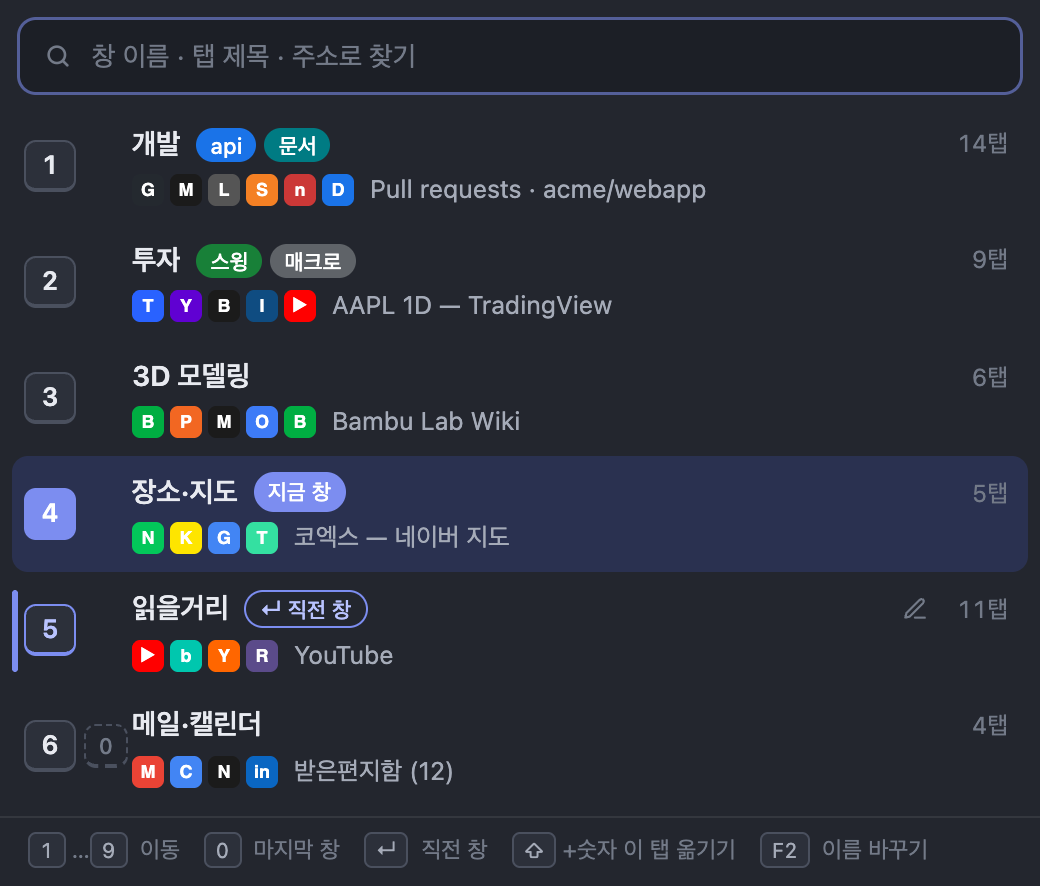
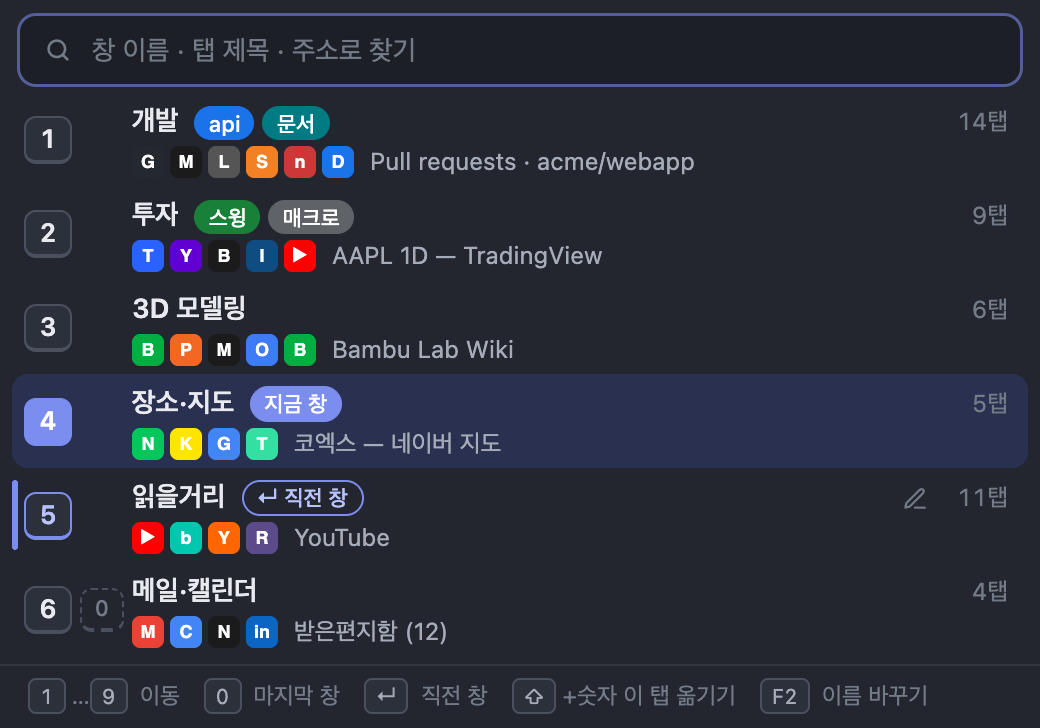
1.0.2: list density option (compact / normal / large)
Chrome caps the popup at 600 px, so density is the lever: compact fits about 13
windows, normal about 10, large about 8. Set in the options page; default normal.
Rows are tighter by default than before.

diff --git a/src/popup.css b/src/popup.css
@@ -52,6 +52,10 @@
 html { color-scheme: light dark; }
 * { box-sizing: border-box; }
 [hidden] { display: none !important; }
+/* List density (options page): compact fits ~13 windows in Chrome's 600px popup, normal ~10, large ~8. */
+body { --row-pad: 4px; --name-size: 13.5px; --sub-size: 12px; --key: 24px; --fav: 16px; --sub-gap: 1px; }
+body[data-density="compact"] { --row-pad: 2px; --name-size: 12.5px; --sub-size: 11px; --key: 22px; --fav: 14px; --sub-gap: 0px; }
+body[data-density="large"] { --row-pad: 8px; --name-size: 15px; --sub-size: 13px; --key: 28px; --fav: 18px; --sub-gap: 3px; }
 html, body { margin: 0; padding: 0; }
 body {
   width: 520px;
@@ -69,9 +73,9 @@ body {
 /* ---------- search ---------- */
 .search {
   display: flex; align-items: center; gap: 10px;
-  margin: 10px 10px 4px;
+  margin: 8px 10px 2px;
   padding: 0 12px;
-  height: 36px;
+  height: 34px;
   background: var(--input-bg);
   border-radius: 8px;
   color: var(--ink-3);
@@ -95,24 +99,24 @@ body {
 .mode b { color: var(--ink); font-weight: 600; }
 
 /* ---------- rows ---------- */
-.rows { padding: 4px 6px 6px; overflow-y: auto; overscroll-behavior: contain; }
+.rows { padding: 2px 6px 4px; overflow-y: auto; overscroll-behavior: contain; }
 .row {
   display: grid;
   grid-template-columns: 44px minmax(0, 1fr) auto;
   grid-template-rows: auto auto;
   column-gap: 10px;
-  padding: 7px 10px 7px 6px;
+  padding: var(--row-pad) 10px var(--row-pad) 6px;
   border-radius: 8px;
   position: relative;
   align-items: center;
   cursor: default;
   user-select: none;
 }
-.row + .row { margin-top: 1px; }
+.row + .row { margin-top: 0; }
 .row:hover { background: var(--row-hover); }
 .row.cur, .row.cur:hover { background: var(--sel-bg); }
 .row.sel::before {
-  content: ""; position: absolute; left: 0; top: 8px; bottom: 8px; width: 3px;
+  content: ""; position: absolute; left: 0; top: 6px; bottom: 6px; width: 3px;
   border-radius: 2px; background: var(--sel-bar);
 }
 .row.cur .name { color: var(--ink); }
@@ -121,7 +125,7 @@ body.moving .row.cur { opacity: .45; }
 .keys { grid-row: 1 / span 2; display: flex; align-items: center; gap: 4px; }
 .key {
   display: inline-flex; align-items: center; justify-content: center;
-  min-width: 26px; height: 26px; padding: 0 6px;
+  min-width: var(--key); height: var(--key); padding: 0 6px;
   border: 1px solid var(--key-edge); border-bottom-width: 2px;
   border-radius: 6px; background: var(--key-bg); color: var(--key-ink);
   font-weight: 600; font-size: 13px; font-variant-numeric: tabular-nums;
@@ -133,8 +137,8 @@ body.moving .row.cur { opacity: .45; }
 .row.sel .key { border-color: var(--sel-bar); color: var(--sel-ink); }
 .row.cur .key:first-child { background: var(--sel-bar); border-color: var(--sel-bar); color: #fff; }
 
-.name-line { display: flex; align-items: center; gap: 8px; min-width: 0; }
-.name { font-weight: 600; font-size: 14px; white-space: nowrap; overflow: hidden; text-overflow: ellipsis; min-width: 0; flex: 0 1 auto; }
+.name-line { display: flex; align-items: center; gap: 8px; min-width: 0; line-height: 1.3; }
+.name { font-weight: 600; font-size: var(--name-size); white-space: nowrap; overflow: hidden; text-overflow: ellipsis; min-width: 0; flex: 0 1 auto; }
 .name mark, .title mark { background: var(--match); color: inherit; border-radius: 2px; padding: 0 1px; }
 .chips { display: flex; gap: 4px; min-width: 0; overflow: hidden; flex: 0 1 auto; }
 .chip {
@@ -165,10 +169,10 @@ body.moving .row.cur { opacity: .45; }
 }
 
 .count { grid-column: 3; grid-row: 1; color: var(--ink-3); font-size: 12px; font-variant-numeric: tabular-nums; white-space: nowrap; }
-.sub-line { grid-column: 2 / span 2; display: flex; align-items: center; gap: 8px; min-width: 0; color: var(--ink-2); font-size: 12.5px; margin-top: 3px; }
+.sub-line { grid-column: 2 / span 2; display: flex; align-items: center; gap: 8px; min-width: 0; color: var(--ink-2); font-size: var(--sub-size); line-height: 1.3; margin-top: var(--sub-gap); }
 .favs { display: flex; gap: 3px; flex: none; }
 .fav, .tile {
-  width: 16px; height: 16px; border-radius: 4px; flex: none;
+  width: var(--fav); height: var(--fav); border-radius: 4px; flex: none;
 }
 .fav { object-fit: contain; }
 .tile {
@@ -192,7 +196,7 @@ body.moving .row.cur { opacity: .45; }
 /* ---------- footer ---------- */
 .foot {
   display: flex; gap: 12px; flex-wrap: wrap; align-items: center;
-  padding: 7px 14px 9px; border-top: 1px solid var(--edge);
+  padding: 6px 14px 7px; border-top: 1px solid var(--edge);
   color: var(--ink-3); font-size: 11.5px; line-height: 1.5;
 }
 .foot .k {

diff --git a/src/mock.js b/src/mock.js
@@ -65,6 +65,14 @@ if (!isExtension && params.has('mock')) {
       tab(124, 106, 'https://www.linkedin.com/', 'LinkedIn', 'in', '#0A66C2'),
     ] },
   ];
+  // ?many=1 adds five more windows to judge list density.
+  for (let i = 0; i < (params.has('many') ? 5 : 0); i++) {
+    const id = 107 + i;
+    windows.push({ id, type: 'normal', state: 'normal', focused: false, incognito: false, tabs: [
+      tab(200 + i * 3, id, `https://example${i}.org/`, ko ? `예시 사이트 ${i + 1}` : `Example site ${i + 1}`, 'E', '#6B7280', { active: true }),
+      tab(201 + i * 3, id, `https://docs.example${i}.org/`, 'Docs', 'D', '#9CA3AF'),
+    ] });
+  }
   const groups = {
     1: { id: 1, title: 'api', color: 'blue', windowId: 101 },
     2: { id: 2, title: ko ? '문서' : 'docs', color: 'cyan', windowId: 101 },
@@ -82,8 +90,8 @@ if (!isExtension && params.has('mock')) {
     return { urls, hosts };
   };
   const labels = ko
-    ? ['개발', '투자', '3D 모델링', '장소·지도', '읽을거리', '메일·캘린더']
-    : ['Dev', 'Investing', '3D printing', 'Places', 'Reading', 'Mail & calendar'];
+    ? ['개발', '투자', '3D 모델링', '장소·지도', '읽을거리', '메일·캘린더', '예시 7', '예시 8', '예시 9', '예시 10', '예시 11']
+    : ['Dev', 'Investing', '3D printing', 'Places', 'Reading', 'Mail & calendar', 'Sample 7', 'Sample 8', 'Sample 9', 'Sample 10', 'Sample 11'];
   const savedNames = windows.map((w, i) => ({ id: `a${i + 1}`, name: labels[i], fp: fpOf(w), created: 1, updated: 1 }));
 
   const local = new Map([['savedNames', savedNames]]);

diff --git a/src/options.js b/src/options.js
@@ -1,4 +1,4 @@
-import { t, uiLanguage, getSavedNames, setSavedNames, getSession, setSession, SUPPORT_URL } from './common.js';
+import { t, uiLanguage, getSettings, setSettings, getSavedNames, setSavedNames, getSession, setSession, SUPPORT_URL } from './common.js';
 import { getShortcut, openShortcutsPage } from './shortcut.js';
 
 const $ = (id) => document.getElementById(id);
@@ -64,6 +64,11 @@ async function init() {
   await (globalThis.__windialMockReady || Promise.resolve());
   document.documentElement.lang = uiLanguage();
   applyI18n();
+  const settings = await getSettings();
+  for (const r of document.querySelectorAll('input[name=density]')) {
+    r.checked = r.value === settings.density;
+    r.addEventListener('change', async () => { await setSettings({ density: r.value }); toast(); });
+  }
   $('shortcutChange').addEventListener('click', openShortcutsPage);
   document.addEventListener('visibilitychange', () => { if (!document.hidden) renderShortcut(); });
 

diff --git a/src/common.js b/src/common.js
@@ -94,8 +94,21 @@ export function fingerprintScore(fpA, fpB) {
 const REBIND_THRESHOLD = 0.4;
 
 // ---------- Storage ----------
-// chrome.storage.local  : savedNames[]
+// chrome.storage.local  : savedNames[], settings{density}
 // chrome.storage.session: mru[], bindings{windowId->savedId}, sessionNames{windowId->name} (incognito only)
+
+export const DEFAULT_SETTINGS = { density: 'normal' }; // 'compact' | 'normal' | 'large'
+
+export async function getSettings() {
+  const { settings } = await chrome.storage.local.get('settings');
+  return { ...DEFAULT_SETTINGS, ...(settings || {}) };
+}
+
+export async function setSettings(patch) {
+  const next = { ...(await getSettings()), ...patch };
+  await chrome.storage.local.set({ settings: next });
+  return next;
+}
 
 export async function getSavedNames() {
   const { savedNames } = await chrome.storage.local.get('savedNames');

diff --git a/src/popup.js b/src/popup.js
@@ -1,6 +1,6 @@
 import {
   t, uiLanguage, MAX_FAVICONS, hostOf, colorForHost, faviconFallbackUrl, GROUP_COLORS, keyLabel,
-  getSession, resolveBindings, saveWindowName, displayName,
+  getSession, getSettings, resolveBindings, saveWindowName, displayName,
 } from './common.js';
 import { getShortcut, openShortcutsPage, parseShortcut, matchesShortcut } from './shortcut.js';
 
@@ -536,6 +536,7 @@ async function init() {
   await (globalThis.__windialMockReady || Promise.resolve());
   chrome.storage.session.set({ lastPopupOpen: Date.now() }).catch(() => {});
   document.documentElement.lang = uiLanguage();
+  getSettings().then((s) => { document.body.dataset.density = s.density || 'normal'; }).catch(() => {});
   els.search.placeholder = t('searchPlaceholder');
   els.search.setAttribute('aria-label', t('searchLabel'));
   els.list.setAttribute('aria-label', t('listLabel'));

diff --git a/src/options.html b/src/options.html
@@ -10,6 +10,13 @@
   <h1 data-i18n="optTitle"></h1>
 
   <section>
+    <h2 data-i18n="optDensity"></h2>
+    <label class="choice"><input type="radio" name="density" value="compact"><span><b data-i18n="densityCompact"></b></span></label>
+    <label class="choice"><input type="radio" name="density" value="normal"><span><b data-i18n="densityNormal"></b></span></label>
+    <label class="choice"><input type="radio" name="density" value="large"><span><b data-i18n="densityLarge"></b></span></label>
+  </section>
+
+  <section>
     <h2 data-i18n="optNames"></h2>
     <p class="help" data-i18n="optNamesHelp"></p>
     <ul class="names" id="names"></ul>

diff --git a/README.md b/README.md
@@ -50,6 +50,10 @@ npm run pack                # dist/windial-<version>.zip for the Web Store
 
 Open `src/popup.html?mock=1&lang=ko` (served over http, e.g. `node tools/serve.mjs`) to work on the UI with sample windows and no extension context. Add `&q=밤부` or `&shift=1` for the search and move states.
 
+## List density
+
+The options page offers three densities: compact (about 13 windows fit in Chrome's 600 px popup limit), normal (about 10) and large (about 8, easier to read). Chrome caps popup height, so density is the lever.
+
 ## Incognito
 
 Allow the extension in incognito (`chrome://extensions` → Windial → Details → *Allow in Incognito*) and incognito windows join the list, numbered with the rest and marked. Nothing about them is written to disk: names you give them live only for the session. Chrome does not let tabs move between normal and incognito windows, so Shift+number greys those targets out.

diff --git a/store/listing.ko.md b/store/listing.ko.md
@@ -21,6 +21,7 @@ Windial은 이 둘을 고칩니다.
 • 창에 이름을 붙입니다. F2로 이름을 지으면 창의 탭 구성으로 다시 찾아 붙이므로 크롬을 다시 켜도 남습니다.
 • 툴바 아이콘에 그 창의 번호가 그려집니다.
 • 시크릿 모드에서 허용하면 시크릿 창도 목록에 같이 나옵니다. 시크릿 창에 대해서는 아무것도 저장하지 않습니다.
+• 목록 밀도를 고를 수 있습니다. 촘촘하게(한 화면에 13개), 보통, 크게.
 • 크롬 언어를 따릅니다. 한국어·영어·일본어·중국어(간체)·스페인어·독일어·프랑스어.
 • 라이트·다크 모드 모두 지원합니다.
 

diff --git a/store/listing.en.md b/store/listing.en.md
@@ -23,6 +23,7 @@ Press the shortcut (⌥W on Mac, Alt+W on Windows and Linux; change it any time 
 • Name your windows. Press F2 to name a window. Names are matched by the window's tabs, so they survive a Chrome restart.
 • The toolbar icon shows the number of the window it is in.
 • Incognito windows join the list if you allow the extension in incognito. Nothing about them is saved.
+• Choose the list density: compact (about 13 windows on screen), normal or large.
 • Follows Chrome's language: English, Korean, Japanese, Simplified Chinese, Spanish, German and French.
 • Works in light and dark mode.
 
